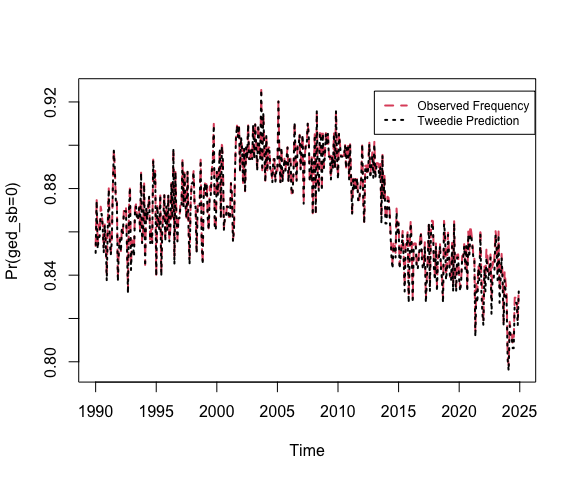
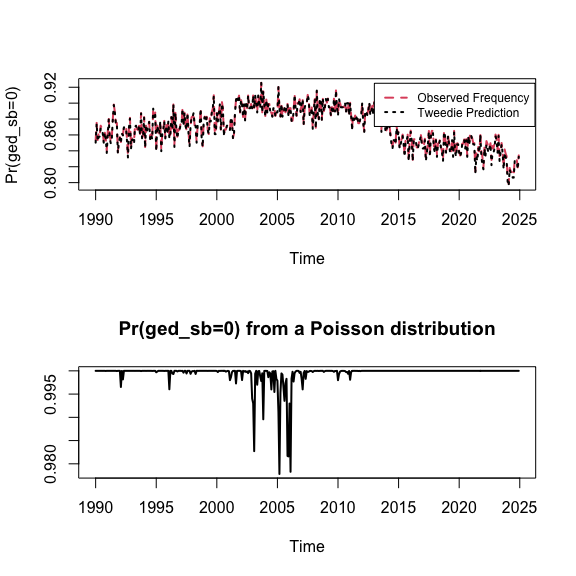
Clarifications on verbiage, links, and explanations throughout.

diff --git a/Brandt-VIEWS2-Demo.md b/Brandt-VIEWS2-Demo.md
@@ -2,7 +2,7 @@ VIEWS Data Setup and Modeling Demo
 ================
 Patrick T. Brandt
 
-May 23, 2025
+May 26, 2025
 
 - [Introduction](#introduction)
 - [Country-Month Data setup](#country-month-data-setup)
@@ -102,10 +102,10 @@ library(openair)
 
 ## Reading in data
 
-Now these are compressed, which means there are only data for all
-observations that are observed.
+This section shows how to automatically download and read in the
+training data for the VIEWS `cm` to `R`.
 
-*If you run your own local version of this, you will likely need to
+*If you run your own local version of this, you may likely need to
 change the paths to the input files.* Here are links for the
 [codebooks](https://viewsforecasting.org/wp-content/uploads/cm_features_competition.pdf)
 or
@@ -113,23 +113,31 @@ or
 and [input
 files](https://www.dropbox.com/scl/fo/rkj4ttawoz9pv6x35r9cq/APSd_RJxvk-fpNAteD4J1iY?rlkey=44eg0kk4w8yh8tm1f53vvpzps&e=1&st=r0qv5cz1&dl=0).
 
+This does take some time initially. (Once you have these files locally
+you can bypass this section or alter this to run locally!)
+
 ``` r
-# CM level data: features and outcomes
+# CM level data: features and outcomes path
 dl_link <- "https://www.dropbox.com/scl/fo/rkj4ttawoz9pv6x35r9cq/ACi53p087OvQUke0pIg88pg/cm_level_data/cm_data_121_542.parquet?rlkey=44eg0kk4w8yh8tm1f53vvpzps&dl=1"
 
+# File name once downloaded
 destfile <- "cm_data_121_542.parquet"
 
 # DL with curl
 curl::curl_download(url = dl_link, destfile = destfile)
 
-
-# This is the main data file
+# This is the main data file being read into R
 cm <- read_parquet("cm_data_121_542.parquet")
+
+###
+## Repeat the above with the data for the country labels and the month ids
+##
 
 # Get the list of country names as well to add to the data
 # These are from the main VIEWS site
 dl_link2 <- "https://www.dropbox.com/scl/fo/rurpcmtpcquni5onoyuus/AGeR6dD-Ru-Emwn06HnKAE8/matching_tables?preview=countries.csv&rlkey=v1o4va647qrwc4la7m8i7cedk&subfolder_nav_tracking=1&st=goucd0hg&dl=1"
 
+# File name declared
 destfile2 <- "country.zip"
 
 # DL with curl
@@ -150,13 +158,14 @@ zip::unzip(zipfile = "month_ids.zip", exdir="month_ids")
 month_ids <- read.csv("month_ids/month_ids.csv", header = TRUE)
 ```
 
-(Note the above will also have downloaded the `pgm` items for the months
+Note the above will also have downloaded the `pgm` items for the months
 and the countries, so this is available for later processing. Adding the
-`pgm` training data would need to be added to the above if desired.)
+`pgm` training data would need to be added to the above if desired. But
+the basic idea is mapped out here.
 
 ## Basic data manipulation for country-months
 
-Here we see how to align the dates and country codes so that the
+This section merges or aligns the dates and country codes so that the
 identifiers can always be put back into the data for case
 identifications. This is a set of `merge` commands using base R.
 
@@ -180,7 +189,12 @@ dfs <- merge(dfs, month_ids[,2:4],
 rm(df1)
 ```
 
-One can now subset or select from an object like `dfs` in several ways:
+If you want more variables in a data frame for analysis they can be
+added as arguments to the `subset()` call.
+
+One can now subset from an object like `dfs` in several ways using all
+the usual tools. Just pulling out the data for Libya or by date would be
+like this:
 
 ``` r
 # Pull out rows for Libya
@@ -242,12 +256,12 @@ rm(post21)
 
 # Basic Time Series Plots of all the SB killings data
 
-This summarizes and plots the GED state-based (SB) deaths series. The
-goal in the next part is to
+This summarizes and plots the GED state-based deaths series in `ged_sb`.
+The goal in the next part is to
 
 1.  extract the data by month
 2.  sumamrize the mean and standard deviation for each month
-3.  Plot these monthly statistics as time series
+3.  plot these monthly statistics as time series
 
 ``` r
 #### Simple plots as checks ####
@@ -487,18 +501,27 @@ Frequency of zeros over time
 </div>
 
 Finally an interactive plot of the variation over months can be
-constructed as follows:
+constructed. Here the log stadnard deviation over time in the `ged_sb`
+are plotted. The benefit of doing this in the natural logarithmic domain
+is that then one can see the relative proportionate increases in the
+variation in more recent years compared to prior years. (The code here
+will need to be run locally if you would like to see the plot.)
 
 ``` r
+# Set up the data for the standard deviations as `x`
 x <- roll.ged.sb[,2]
+
+# Months as factor
 dmn <- list(month.abb, unique(floor(time(x))))
+
 # convert to data frame by month, to make data retrieval easier
 res.x <- as.data.frame(t(matrix(x, 12, dimnames = dmn)))
-# set the values of the 3d vectors
+
+# set the equal dimension values of the 3d vectors
 n <- nrow(res.x)
 x.x <- rep(month.abb, times=n)
 y.x <- rep(rownames(res.x), each=12)
-z.x <- c(log(as.numeric(x)))
+z.x <- c(log(as.numeric(x))) # note taking logs here.
 
 # May need to append values to the vector
 # converted from the time series and we let them
@@ -507,8 +530,12 @@ z.x <- c(log(as.numeric(x)))
 # n.z <- length(x.us)
 # z.us[n.z+1] = z.us[n.z]
 # z.us[n.z+2] = z.us[n.z]
+
+# Make into a dataframe
 x.us <- data.frame(x.x, y.x, z.x)
 colnames(x.us) <- data.frame("x", "y", "z")
+
+# Plot using plot_ly for interactive effects
 fig.x <- plot_ly(x.us, x = ~y, y = ~x, z = ~z, 
                  type = 'scatter3d', 
                  mode = 'lines', color=~y.x)
@@ -538,6 +565,14 @@ class with a specific chapter on the Tweedie distribution.
 Numerical results and computational details for the Tweedie distribution
 and its likeihood estimation are addressed in Zhang (2013), P. K. Dunn
 and Smyth (2008) P. K. Dunn and Smyth (2005), and P. Dunn (2017).
+
+The reason to consider this distribution for the data is that
+
+1.  It allows a point-mass at zero (without the need for a
+    zero-inflation model or parameters)
+2.  It nests some commonly used distrubutions for this kind of problem
+    as special cases (see below)
+3.  
 
 ## Definition
 
@@ -581,7 +616,7 @@ P. Dunn 2017).
 
 The variance function for the ED models is constructed from the
 canonical mapping of the derivatives of the cumulant for $`\kappa()`$ to
-the mean $`\mu`$. IN this case these are
+the mean $`\mu`$. These are
 
 ``` math
 
@@ -614,7 +649,7 @@ as reproductive exponential dispersion:
 
 ``` math
 
-  \operatorname{Tw} _{p}(\mu ,\sigma ^{2})=\operatorname{Tw _{p}}(c\mu ,c^{2-p}\sigma ^{2}).
+  \textrm{Tw} _{p}(\mu ,\sigma ^{2})=\textrm{Tw}_{p}(c\mu ,c^{2-p}\sigma ^{2}).
 ```
 (Jorgensen 1997 Theorem 4.1)
 
@@ -827,7 +862,7 @@ Now plot the probability of a zero count from the Tweedie, Poisson, and
 data for comparison.
 
 ``` r
-# Convert using Dunn and Smyth formula
+# Convert using Dunn and Smyth paper formula for Pr(Y=0) in this model
 twp.convert <- sapply(1:nrow(twp), 
                       function(i) tweedie.convert(xi = twp[i,"p"], 
                                                   mu=twp[i,"Mean"], 
@@ -845,16 +880,21 @@ freq.zeros <- aggregate(dfs$ged_sb==0,
                         by=list(dfs$month_id), mean)
 
 # Poisson predictions make no sense
-# range(dpois(0, lambda=roll.ged.sb[,1]))
+psn.0 <- dpois(0, lambda=roll.ged.sb[,1])
 
+# Plotting: Tweedie prediction and observed.
+par(mfrow=c(2,1))
 plot(ts(cbind(twp.convert$p0, freq.zeros[,2]), 
         start=c(1990,1), freq=12),
      plot.type="single", lwd=2, lty=2:3, col=2:1, 
-     ylab = "Pr(ged_sb=0)")
+     ylab = "Pr(ged_sb=0)", cex.lab=0.8)
 
 legend(2013, 0.925, 
        c("Observed Frequency", "Tweedie Prediction"), col=2:1,
        lty=2:3, lwd=2, cex=0.75)
+
+plot(1-psn.0, lwd=2, lty=1, ylab="",
+     main="Pr(ged_sb=0) from a Poisson distribution", cex.lab=0.8)
 ```
 
 <div class="figure" style="text-align: center">
@@ -868,7 +908,10 @@ baseline frequency of zero.
 
 </div>
 
-The Tweedie model captures this important property of the data.
+The Tweedie model captures this important property of the data. The
+second graph with the Poisson result shows that using the per-month
+means misses the probability of the zeros because of the skewed nature
+of the distribution.
 
 # Simple prediction models
 
@@ -1087,7 +1130,10 @@ A simple first comparison is just to look at the summaries of each of
 the 5 forecast models compared to the observed values for each
 country-month.
 
-- Series of scatter, QQ, and then ECDF plots for the models.
+- Series of plots for the models:
+  - scatter
+  - QQ (quantile versus quantile),
+  - Empirical cumulative distribution function (ECDF)
 - Various metrics for these.
 
 ``` r
@@ -1114,6 +1160,16 @@ legend("bottomright", legend=c("Poisson", "Actual"), col=1:2, lwd=2)
 </p>
 
 </div>
+
+The idea here is that if the predictions are good, then for a given
+model we expcet
+
+- the scatter plots should be close to a 45-degree line
+- the QQ plot should align thw quantiles (deviations or outliers are
+  noted in the tails usually)
+- The ECDF should follow the northwester axes of the plot
+
+From the results here there is clear basis for improvement!
 
 ## Forecast Formatting
 
@@ -1416,7 +1472,7 @@ system.time(scored.out <- score(as_forecast_sample(all.stacked,
 ```
 
     ##    user  system elapsed 
-    ##   6.901   0.936   4.113
+    ##   7.730   0.397   3.955
 
 ``` r
 # Get summaries by correct units of evaluation

diff --git a/README.md b/README.md
@@ -10,7 +10,9 @@ This is a simple demo for getting started with the VIEWS data in `R`.  It covers
 
 [Getting Started with the VIEWS data tutorial](https://github.com/PTB-OEDA/VIEWS-Startup/blob/main/Brandt-VIEWS2-Demo.md)
 
-[Learning about Tweedie and Exponential Dispersion Models](TBD)
+[Learning about Tweedie and Exponential Dispersion Models](https://github.com/PTB-OEDA/VIEWS-Startup/blob/main/Brandt-VIEWS2-Demo.md#tweedie-distribution-models)
+
+[Practocel Forecast Scoring](https://github.com/PTB-OEDA/VIEWS-Startup/blob/main/Brandt-VIEWS2-Demo.md#practical-forecast-scoring)
 
 It lets you do things like
 
